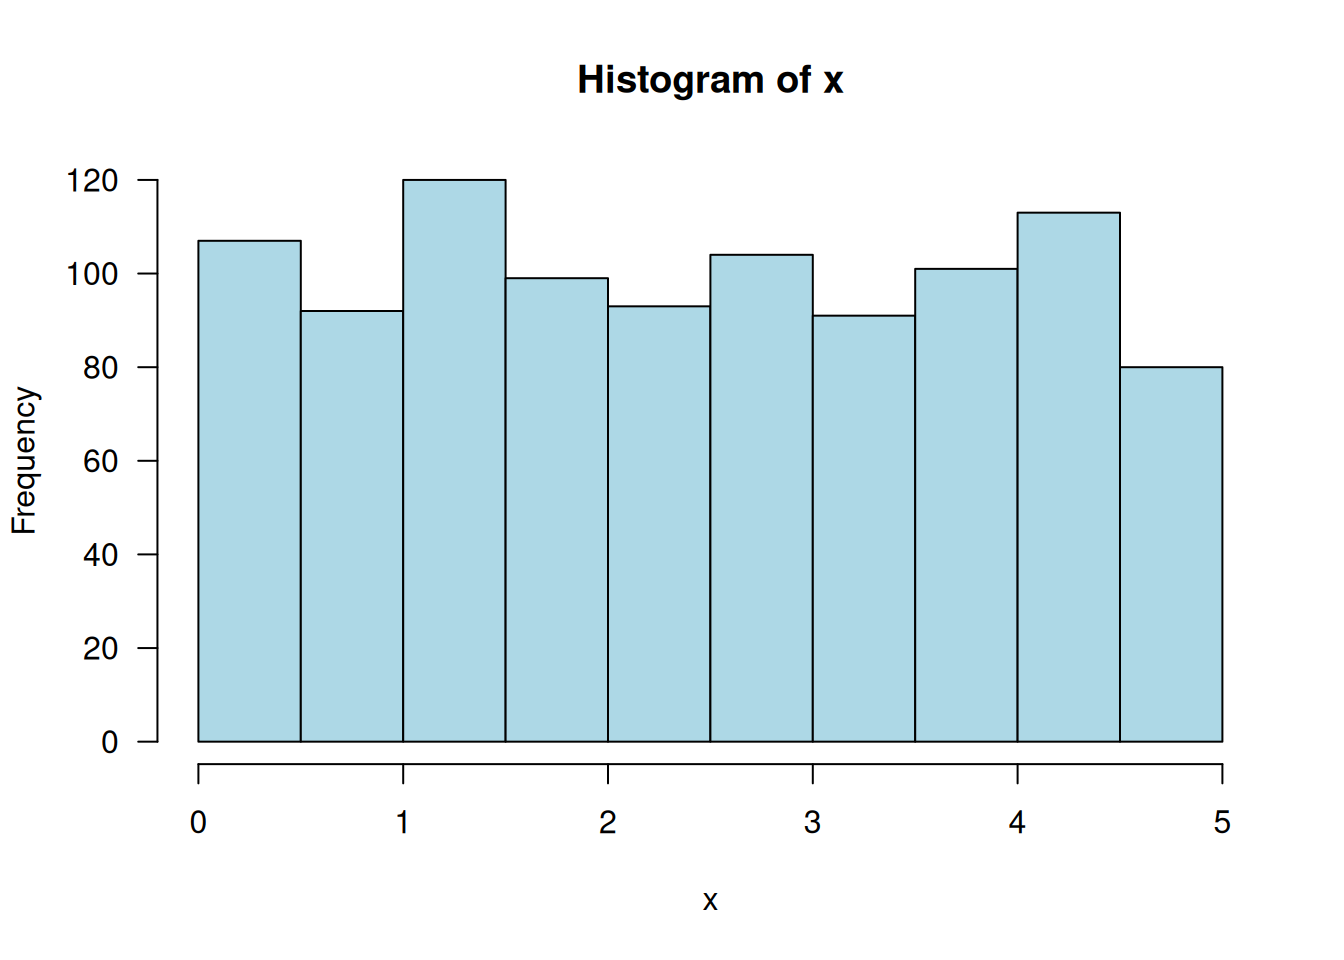
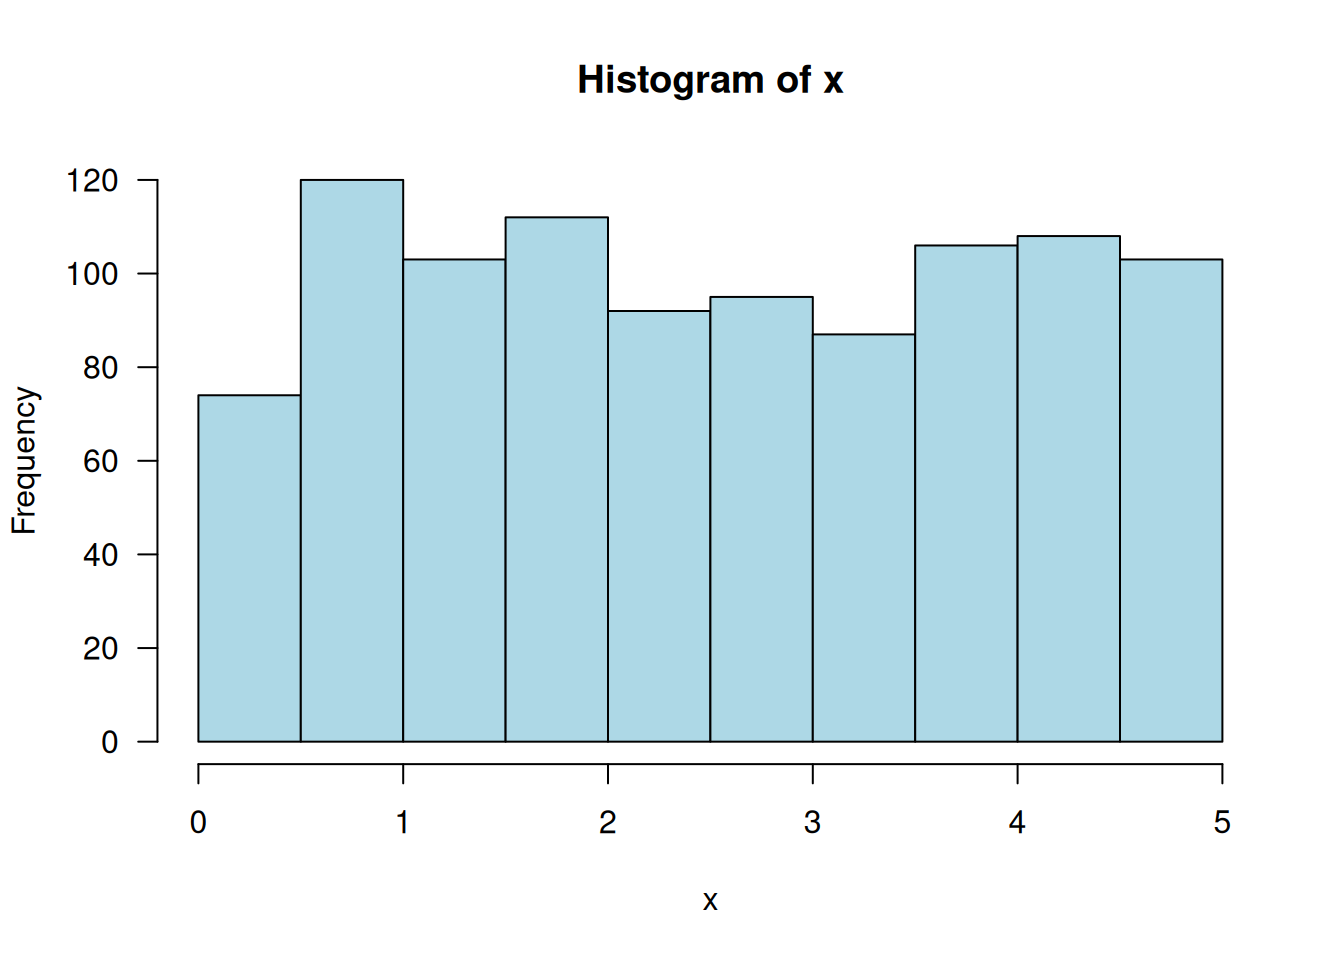
Deploying to gh-pages from @ jtr13/1201@18d8a74069e979e9a263e399a13aa9fa31b7ef51 🚀

Changed region(s): [[0.125, 0.1875, 0.6875, 0.4375], [0.6562, 0.2188, 0.9375, 0.4062]]

diff --git a/ch.-4-continuous-random-variables-and-probability-distributions.html b/ch.-4-continuous-random-variables-and-probability-distributions.html
@@ -7,7 +7,7 @@
 <title>Ch. 4 Continuous Random Variables and Probability Distributions | Stat 1201 Resources</title>
 <meta name="author" content="Joyce Robbins">
 <meta name="description" content="Sections covered: 4.1, 4.2, 4.3, 4.4 (exponential only) 4.1 Probability density functions  R Simulating a uniform distribution Randomly choose one number from the distribution: \(f(x) = .2\) for...">
-<meta name="generator" content="bookdown 0.42 with bs4_book()">
+<meta name="generator" content="bookdown 0.43 with bs4_book()">
 <meta property="og:title" content="Ch. 4 Continuous Random Variables and Probability Distributions | Stat 1201 Resources">
 <meta property="og:type" content="book">
 <meta property="og:url" content="https://jtr13.github.io/1201/ch.-4-continuous-random-variables-and-probability-distributions.html">
@@ -80,12 +80,12 @@
 <p><span class="math inline">\(f(x) = .2\)</span> for <span class="math inline">\(0 \leq x \leq 5\)</span>, 0 otherwise.</p>
 <div class="sourceCode" id="cb161"><pre class="downlit sourceCode r">
 <code class="sourceCode R"><span><span class="fu"><a href="https://rdrr.io/r/stats/Uniform.html">runif</a></span><span class="op">(</span>n <span class="op">=</span> <span class="fl">1</span>, min <span class="op">=</span> <span class="fl">0</span>, max <span class="op">=</span> <span class="fl">5</span><span class="op">)</span></span></code></pre></div>
-<pre><code>## [1] 0.267783</code></pre>
+<pre><code>## [1] 1.891106</code></pre>
 <p>Take the average of 1000 picks:</p>
 <div class="sourceCode" id="cb163"><pre class="downlit sourceCode r">
 <code class="sourceCode R"><span><span class="va">x</span> <span class="op">&lt;-</span> <span class="fu"><a href="https://rdrr.io/r/stats/Uniform.html">runif</a></span><span class="op">(</span>n <span class="op">=</span> <span class="fl">1000</span>, min <span class="op">=</span> <span class="fl">0</span>, max <span class="op">=</span> <span class="fl">5</span><span class="op">)</span></span>
 <span><span class="fu"><a href="https://rdrr.io/r/base/mean.html">mean</a></span><span class="op">(</span><span class="va">x</span><span class="op">)</span></span></code></pre></div>
-<pre><code>## [1] 2.453614</code></pre>
+<pre><code>## [1] 2.530571</code></pre>
 <p>Draw a histogram of the 1000 picks:</p>
 <div class="sourceCode" id="cb165"><pre class="downlit sourceCode r">
 <code class="sourceCode R"><span><span class="fu"><a href="https://rdrr.io/r/graphics/hist.html">hist</a></span><span class="op">(</span><span class="va">x</span>, las <span class="op">=</span> <span class="fl">1</span>, col <span class="op">=</span> <span class="st">"lightblue"</span><span class="op">)</span></span></code></pre></div>
@@ -268,7 +268,7 @@ aid, sothat <em>p = .25</em>. What is the probability that at most 10 students r
 <footer class="bg-primary text-light mt-5"><div class="container"><div class="row">
 
   <div class="col-12 col-md-6 mt-3">
-    <p>"<strong>Stat 1201 Resources</strong>" was written by Joyce Robbins. It was last built on 2025-02-14.</p>
+    <p>"<strong>Stat 1201 Resources</strong>" was written by Joyce Robbins. It was last built on 2025-04-17.</p>
   </div>
 
   <div class="col-12 col-md-6 mt-3">

diff --git a/ch.-8-tests-of-hypotheses-based-on-a-single-sample.html b/ch.-8-tests-of-hypotheses-based-on-a-single-sample.html
@@ -7,7 +7,7 @@
 <title>Ch. 8 Tests of Hypotheses Based on a Single Sample | Stat 1201 Resources</title>
 <meta name="author" content="Joyce Robbins">
 <meta name="description" content="Sections covered: 8.1, 8.2, 8.3, 8.4, 8.5 8.1 Hypotheses and Test Procedures Note: We will cover the beginning of the section and then return to errors in hypothesis testing (beginning on page...">
-<meta name="generator" content="bookdown 0.42 with bs4_book()">
+<meta name="generator" content="bookdown 0.43 with bs4_book()">
 <meta property="og:title" content="Ch. 8 Tests of Hypotheses Based on a Single Sample | Stat 1201 Resources">
 <meta property="og:type" content="book">
 <meta property="og:url" content="https://jtr13.github.io/1201/ch.-8-tests-of-hypotheses-based-on-a-single-sample.html">
@@ -79,6 +79,8 @@
 <h2>8.2 <em>z</em> Tests for Hypotheses about a Population Mean<a class="anchor" aria-label="anchor" href="#z-tests-for-hypotheses-about-a-population-mean"><i class="fas fa-link"></i></a>
 </h2>
 <p>Skip: calculating Type II error and sample size needed for two sided tests (3rd and 5th formulas in the blue box on p. 331)</p>
+<p>Interactive resource:
+<a href="https://shiny.rit.albany.edu/stat/betaprob/">Visualize Type I/II errors: One-sample Test of Means (Z test)</a></p>
 </div>
 <div id="the-one-sample-t-test" class="section level2 unnumbered">
 <h2>8.3 The One-Sample <em>t</em> Test<a class="anchor" aria-label="anchor" href="#the-one-sample-t-test"><i class="fas fa-link"></i></a>
@@ -180,7 +182,7 @@
 <footer class="bg-primary text-light mt-5"><div class="container"><div class="row">
 
   <div class="col-12 col-md-6 mt-3">
-    <p>"<strong>Stat 1201 Resources</strong>" was written by Joyce Robbins. It was last built on 2025-02-14.</p>
+    <p>"<strong>Stat 1201 Resources</strong>" was written by Joyce Robbins. It was last built on 2025-04-17.</p>
   </div>
 
   <div class="col-12 col-md-6 mt-3">

diff --git a/ch.-7-statistical-intervals-based-on-a-single-sample.html b/ch.-7-statistical-intervals-based-on-a-single-sample.html
@@ -7,7 +7,7 @@
 <title>Ch. 7 Statistical Intervals Based on a Single Sample | Stat 1201 Resources</title>
 <meta name="author" content="Joyce Robbins">
 <meta name="description" content="Sections covered: 7.1, 7.2, 7.3 7.1 Basic Properties of Confidence Intervals Skip: “Deriving a Confidence Interval”, pp. 282-284; “Bootstrap Confidence Intervals”, p. 284  7.2 Large-Sample...">
-<meta name="generator" content="bookdown 0.42 with bs4_book()">
+<meta name="generator" content="bookdown 0.43 with bs4_book()">
 <meta property="og:title" content="Ch. 7 Statistical Intervals Based on a Single Sample | Stat 1201 Resources">
 <meta property="og:type" content="book">
 <meta property="og:url" content="https://jtr13.github.io/1201/ch.-7-statistical-intervals-based-on-a-single-sample.html">
@@ -116,7 +116,7 @@
 <footer class="bg-primary text-light mt-5"><div class="container"><div class="row">
 
   <div class="col-12 col-md-6 mt-3">
-    <p>"<strong>Stat 1201 Resources</strong>" was written by Joyce Robbins. It was last built on 2025-02-14.</p>
+    <p>"<strong>Stat 1201 Resources</strong>" was written by Joyce Robbins. It was last built on 2025-04-17.</p>
   </div>
 
   <div class="col-12 col-md-6 mt-3">

diff --git a/ch.-5-joint-probability.html b/ch.-5-joint-probability.html
@@ -7,7 +7,7 @@
 <title>Ch. 5 Joint Probability | Stat 1201 Resources</title>
 <meta name="author" content="Joyce Robbins">
 <meta name="description" content="Sections covered: 5.1, 5.2 5.1 Jointly Distributed Random Variables Skip everything but “Two Discrete Random Variables” pp. 199-200 and “Independent Random Variables” pp. 204-205 (discrete case...">
-<meta name="generator" content="bookdown 0.42 with bs4_book()">
+<meta name="generator" content="bookdown 0.43 with bs4_book()">
 <meta property="og:title" content="Ch. 5 Joint Probability | Stat 1201 Resources">
 <meta property="og:type" content="book">
 <meta property="og:url" content="https://jtr13.github.io/1201/ch.-5-joint-probability.html">
@@ -139,7 +139,7 @@ Two points are needed to calculate r.
 <footer class="bg-primary text-light mt-5"><div class="container"><div class="row">
 
   <div class="col-12 col-md-6 mt-3">
-    <p>"<strong>Stat 1201 Resources</strong>" was written by Joyce Robbins. It was last built on 2025-02-14.</p>
+    <p>"<strong>Stat 1201 Resources</strong>" was written by Joyce Robbins. It was last built on 2025-04-17.</p>
   </div>
 
   <div class="col-12 col-md-6 mt-3">

diff --git a/ch.-3-discrete-distributions.html b/ch.-3-discrete-distributions.html
@@ -7,7 +7,7 @@
 <title>Ch. 3 Discrete Distributions | Stat 1201 Resources</title>
 <meta name="author" content="Joyce Robbins">
 <meta name="description" content="Sections covered: 3.1 - 3.6 Skip: “The Poisson Distribution as a Limit” (pp. 132-33) and “The Poisson Process” (pp. 134-135) There is no direct way in R to calculate the mean and variance of a...">
-<meta name="generator" content="bookdown 0.42 with bs4_book()">
+<meta name="generator" content="bookdown 0.43 with bs4_book()">
 <meta property="og:title" content="Ch. 3 Discrete Distributions | Stat 1201 Resources">
 <meta property="og:type" content="book">
 <meta property="og:url" content="https://jtr13.github.io/1201/ch.-3-discrete-distributions.html">
@@ -363,7 +363,7 @@
 <footer class="bg-primary text-light mt-5"><div class="container"><div class="row">
 
   <div class="col-12 col-md-6 mt-3">
-    <p>"<strong>Stat 1201 Resources</strong>" was written by Joyce Robbins. It was last built on 2025-02-14.</p>
+    <p>"<strong>Stat 1201 Resources</strong>" was written by Joyce Robbins. It was last built on 2025-04-17.</p>
   </div>
 
   <div class="col-12 col-md-6 mt-3">

diff --git a/ch.-1-descriptive-statistics.html b/ch.-1-descriptive-statistics.html
@@ -7,7 +7,7 @@
 <title>Ch. 1 Descriptive Statistics | Stat 1201 Resources</title>
 <meta name="author" content="Joyce Robbins">
 <meta name="description" content="Sections covered: all (skim 1.1) 1.2 Pictorial and Tabular Methods in Descriptive Statistics Skip: Example 1.7, p. 15 (double-digit leaves) Skip: “Dotplots,” pp. 15-16 Stem-and-leaf plots Ex: The...">
-<meta name="generator" content="bookdown 0.42 with bs4_book()">
+<meta name="generator" content="bookdown 0.43 with bs4_book()">
 <meta property="og:title" content="Ch. 1 Descriptive Statistics | Stat 1201 Resources">
 <meta property="og:type" content="book">
 <meta property="og:url" content="https://jtr13.github.io/1201/ch.-1-descriptive-statistics.html">
@@ -348,7 +348,7 @@
 <footer class="bg-primary text-light mt-5"><div class="container"><div class="row">
 
   <div class="col-12 col-md-6 mt-3">
-    <p>"<strong>Stat 1201 Resources</strong>" was written by Joyce Robbins. It was last built on 2025-02-14.</p>
+    <p>"<strong>Stat 1201 Resources</strong>" was written by Joyce Robbins. It was last built on 2025-04-17.</p>
   </div>
 
   <div class="col-12 col-md-6 mt-3">

diff --git a/ch.-2-conditional-probability.html b/ch.-2-conditional-probability.html
@@ -7,7 +7,7 @@
 <title>Ch. 2 Conditional Probability | Stat 1201 Resources</title>
 <meta name="author" content="Joyce Robbins">
 <meta name="description" content="Sections covered: 2.4, 2.5 (Section 2.5 was covered earlier; now we’re adding the definition of independence in terms of conditional probability on p. 85: “Two events A and B are independent if...">
-<meta name="generator" content="bookdown 0.42 with bs4_book()">
+<meta name="generator" content="bookdown 0.43 with bs4_book()">
 <meta property="og:title" content="Ch. 2 Conditional Probability | Stat 1201 Resources">
 <meta property="og:type" content="book">
 <meta property="og:url" content="https://jtr13.github.io/1201/ch.-2-conditional-probability.html">
@@ -105,7 +105,7 @@
 <footer class="bg-primary text-light mt-5"><div class="container"><div class="row">
 
   <div class="col-12 col-md-6 mt-3">
-    <p>"<strong>Stat 1201 Resources</strong>" was written by Joyce Robbins. It was last built on 2025-02-14.</p>
+    <p>"<strong>Stat 1201 Resources</strong>" was written by Joyce Robbins. It was last built on 2025-04-17.</p>
   </div>
 
   <div class="col-12 col-md-6 mt-3">

diff --git a/404.html b/404.html
@@ -7,7 +7,7 @@
 <title>Page not found | Stat 1201 Resources</title>
 <meta name="author" content="Joyce Robbins">
 <meta name="description" content="The page you requested cannot be found (perhaps it was moved or renamed). You may want to try searching to find the page's new location, or use the table of contents to find the page you are...">
-<meta name="generator" content="bookdown 0.42 with bs4_book()">
+<meta name="generator" content="bookdown 0.43 with bs4_book()">
 <meta property="og:title" content="Page not found | Stat 1201 Resources">
 <meta property="og:type" content="book">
 <meta property="og:url" content="https://jtr13.github.io/1201/404.html">
@@ -83,7 +83,7 @@ the table of contents to find the page you are looking for.</p>
 <footer class="bg-primary text-light mt-5"><div class="container"><div class="row">
 
   <div class="col-12 col-md-6 mt-3">
-    <p>"<strong>Stat 1201 Resources</strong>" was written by Joyce Robbins. It was last built on 2025-02-14.</p>
+    <p>"<strong>Stat 1201 Resources</strong>" was written by Joyce Robbins. It was last built on 2025-04-17.</p>
   </div>
 
   <div class="col-12 col-md-6 mt-3">

diff --git a/getting-started-with-r.html b/getting-started-with-r.html
@@ -7,7 +7,7 @@
 <title>Getting Started with R | Stat 1201 Resources</title>
 <meta name="author" content="Joyce Robbins">
 <meta name="description" content="Using R without installing it https://rdrr.io/snippets/ The bare minimum: You can create vectors of numbers using this format: x &lt;- c(10, 12, 15, 20, 21, 22, 35, 45, 50)   # click to copy --&gt; Then...">
-<meta name="generator" content="bookdown 0.42 with bs4_book()">
+<meta name="generator" content="bookdown 0.43 with bs4_book()">
 <meta property="og:title" content="Getting Started with R | Stat 1201 Resources">
 <meta property="og:type" content="book">
 <meta property="og:url" content="https://jtr13.github.io/1201/getting-started-with-r.html">
@@ -269,7 +269,7 @@
 <footer class="bg-primary text-light mt-5"><div class="container"><div class="row">
 
   <div class="col-12 col-md-6 mt-3">
-    <p>"<strong>Stat 1201 Resources</strong>" was written by Joyce Robbins. It was last built on 2025-02-14.</p>
+    <p>"<strong>Stat 1201 Resources</strong>" was written by Joyce Robbins. It was last built on 2025-04-17.</p>
   </div>
 
   <div class="col-12 col-md-6 mt-3">

diff --git a/ch.-12-linear-regression.html b/ch.-12-linear-regression.html
@@ -7,7 +7,7 @@
 <title>Ch. 12 Linear Regression | Stat 1201 Resources</title>
 <meta name="author" content="Joyce Robbins">
 <meta name="description" content="Sections covered: 12.1, 12.2, 12.5 12.1 The Simple Linear Regression Model  12.2 Estimating Model Parameters Formulas to know from p. 498: \(b_1 = \dfrac{\sum(x_i -\overline{x})(y_i -...">
-<meta name="generator" content="bookdown 0.42 with bs4_book()">
+<meta name="generator" content="bookdown 0.43 with bs4_book()">
 <meta property="og:title" content="Ch. 12 Linear Regression | Stat 1201 Resources">
 <meta property="og:type" content="book">
 <meta property="og:url" content="https://jtr13.github.io/1201/ch.-12-linear-regression.html">
@@ -298,7 +298,7 @@
 <footer class="bg-primary text-light mt-5"><div class="container"><div class="row">
 
   <div class="col-12 col-md-6 mt-3">
-    <p>"<strong>Stat 1201 Resources</strong>" was written by Joyce Robbins. It was last built on 2025-02-14.</p>
+    <p>"<strong>Stat 1201 Resources</strong>" was written by Joyce Robbins. It was last built on 2025-04-17.</p>
   </div>
 
   <div class="col-12 col-md-6 mt-3">

diff --git a/ch.-5-random-samples.html b/ch.-5-random-samples.html
@@ -7,7 +7,7 @@
 <title>Ch. 5 Random Samples | Stat 1201 Resources</title>
 <meta name="author" content="Joyce Robbins">
 <meta name="description" content="Sections covered: 5.3, 5.4, 5.5 5.4 The Distribution of the Sample Mean Central Limit Theorem visualization: http://mfviz.com/central-limit/  5.5 The Distribution of a Linear Combination Skip (for...">
-<meta name="generator" content="bookdown 0.42 with bs4_book()">
+<meta name="generator" content="bookdown 0.43 with bs4_book()">
 <meta property="og:title" content="Ch. 5 Random Samples | Stat 1201 Resources">
 <meta property="og:type" content="book">
 <meta property="og:url" content="https://jtr13.github.io/1201/ch.-5-random-samples.html">
@@ -106,7 +106,7 @@
 <footer class="bg-primary text-light mt-5"><div class="container"><div class="row">
 
   <div class="col-12 col-md-6 mt-3">
-    <p>"<strong>Stat 1201 Resources</strong>" was written by Joyce Robbins. It was last built on 2025-02-14.</p>
+    <p>"<strong>Stat 1201 Resources</strong>" was written by Joyce Robbins. It was last built on 2025-04-17.</p>
   </div>
 
   <div class="col-12 col-md-6 mt-3">

diff --git a/ch.-2-probability.html b/ch.-2-probability.html
@@ -7,7 +7,7 @@
 <title>Ch. 2 Probability | Stat 1201 Resources</title>
 <meta name="author" content="Joyce Robbins">
 <meta name="description" content="Sections covered: 2.1, 2.2, 2.3, 2.5 (2.4 will be covered later in the semester) 2.1 Sample Spaces and Events  Humor  Source: https://twitter.com/bcrypt/status/1074415553266122752/photo/1  2.2...">
-<meta name="generator" content="bookdown 0.42 with bs4_book()">
+<meta name="generator" content="bookdown 0.43 with bs4_book()">
 <meta property="og:title" content="Ch. 2 Probability | Stat 1201 Resources">
 <meta property="og:type" content="book">
 <meta property="og:url" content="https://jtr13.github.io/1201/ch.-2-probability.html">
@@ -151,7 +151,7 @@
 <footer class="bg-primary text-light mt-5"><div class="container"><div class="row">
 
   <div class="col-12 col-md-6 mt-3">
-    <p>"<strong>Stat 1201 Resources</strong>" was written by Joyce Robbins. It was last built on 2025-02-14.</p>
+    <p>"<strong>Stat 1201 Resources</strong>" was written by Joyce Robbins. It was last built on 2025-04-17.</p>
   </div>
 
   <div class="col-12 col-md-6 mt-3">
